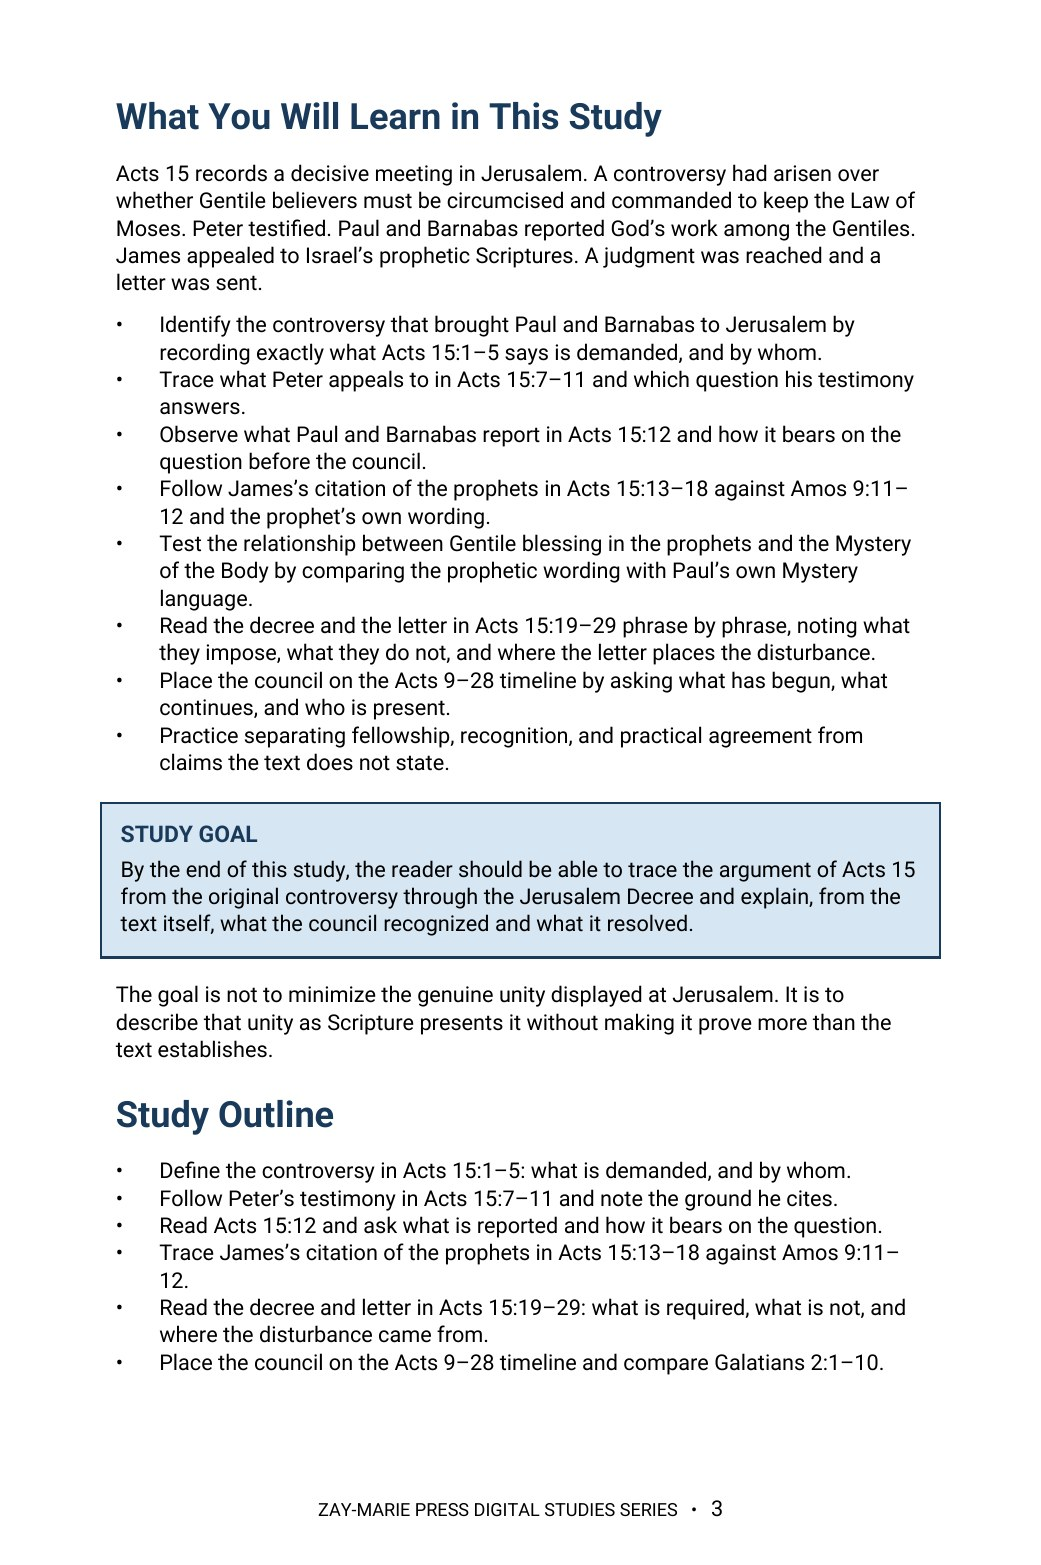
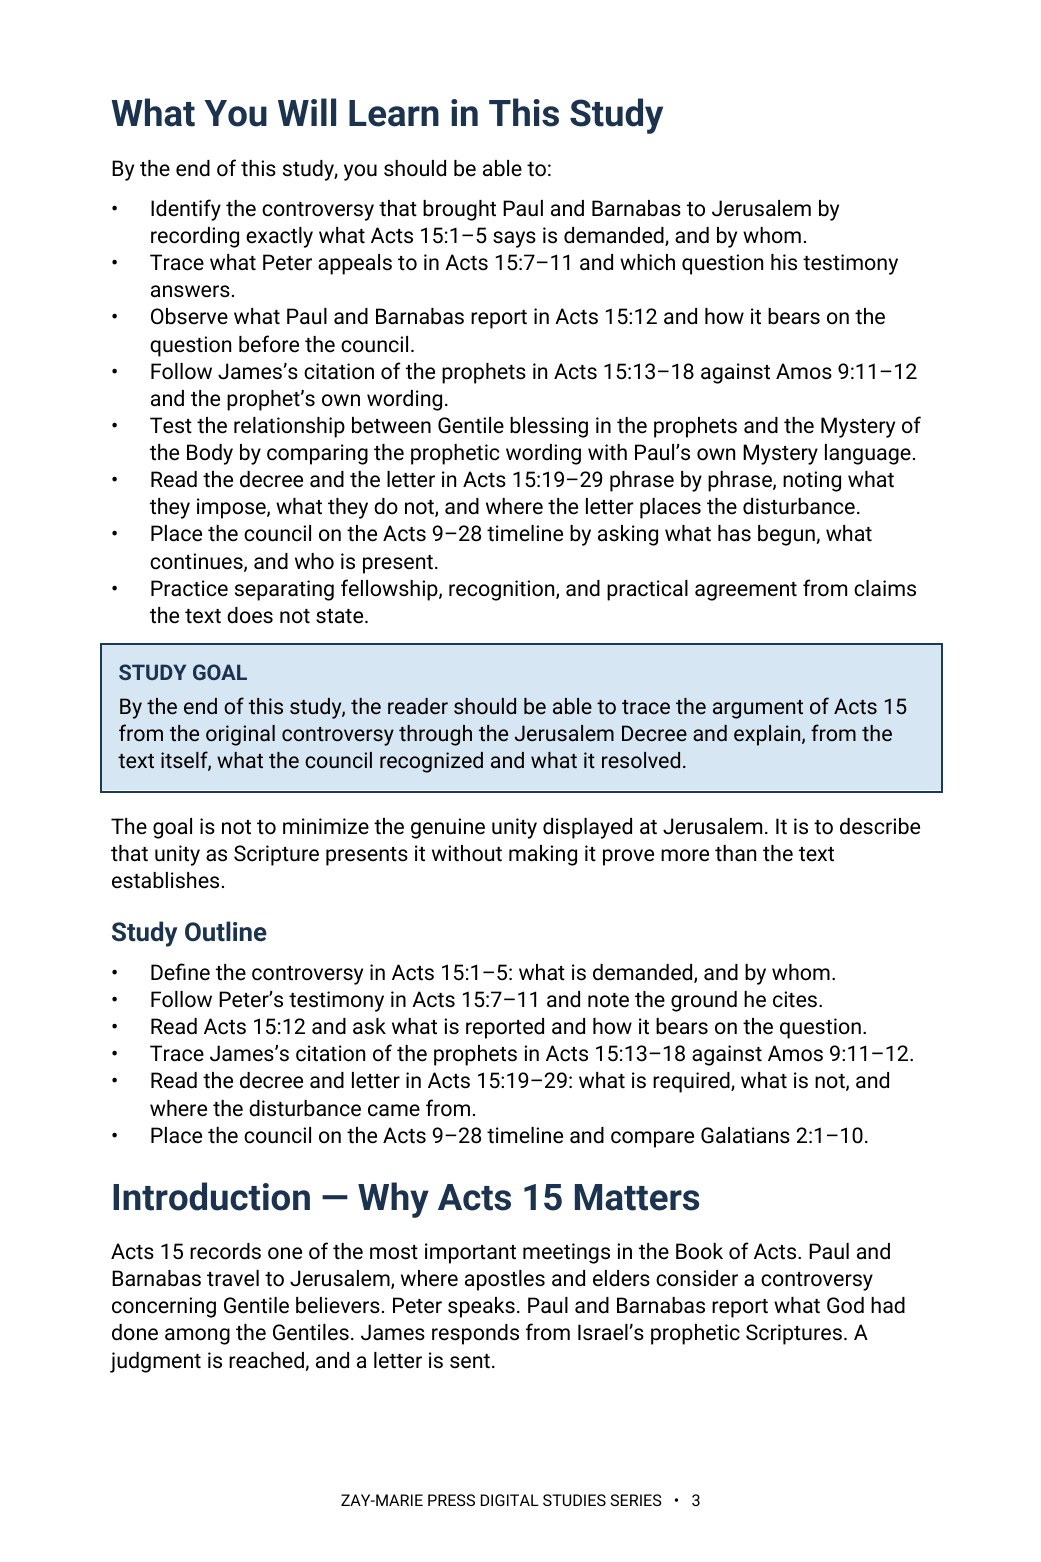
Study 19: rebuilt in Roboto 10 pt on current page (16 pages); previews 2, 3, 4 re-rendered; trackers v1.104/v1.198
Claude-Session: https://claude.ai/code/session_01HC7bs9KYP2scp4hCL6DkTp

Changed region(s): [[0.0922, 0.0615, 0.9222, 0.8912], [0.3074, 0.9526, 0.6455, 0.9834]]

diff --git a/CLAUDE.md b/CLAUDE.md
@@ -23,7 +23,7 @@ These are kept in the repo at `controlling-documents/` and are the current versi
 - As of v1.50 (publisher directive, 2026-10-03), the **What You Will Learn in This Study** section is always bulleted, never set as running paragraphs, written into this file in the same pass (Master Standard Section 3 item 4, Section 6 structure line, Section 22): a list of bullet points, each describing one process, textual marker or interpretive discipline the reader will practice (Section 17 still governs what they may say); at most one short lead-in line may stand above the bullets (for example, “By the end of this study, you should be able to:”); the Study Goal callout and the Study Outline keep their own forms. It governs every new study and every study rebuilt or retrofitted from now on; earlier studies take it when reopened or when the publisher directs. In every study check (Step 1), report whether the section is bulleted. First applied to Study 43.
 **`controlling-documents/Digital_Studies_Relationship_Map_v1.39.md`** — records each study's distinct subject, its related studies, the eight priced six-study collections, the Paul's Missionary Journeys cross-reference map, and the five primary catalog categories (currently version 1.39, covers Studies 1–71; update it as new studies publish, bump the version number, rename the file to match, and log the change in its own version-history table — mirroring the Master Standard's `_vX.Y` filename convention). Check a proposed topic against it before recommending or writing a new study. (2026-09-28: the file was missing from this repo despite this note referencing it; replaced from the publisher's copy and bumped v1.15→v1.25 in the same pass. If this note ever again points to a version not present under `controlling-documents/`, ask the publisher for a copy rather than proceeding without the check.)
 - **`controlling-documents/Digital_Studies_Category_Standard_v1.1.md`** — FINAL and binding (publisher, 2026-10-01): the rules for the five primary catalog categories (Foundations, Israel & Prophecy, Body of Christ, Passages, Doctrinal Themes), the ordered decision procedure for new studies, the precedents, all 71 fixed assignments, and the cover-label form for each category. Read it before placing any card or cover label. Do not ask the publisher where a study belongs; apply the procedure and state the result. Only the publisher changes a ruling; then bump this Standard's version and filename, re-letter the cover, and update the Relationship Map.
-- **`controlling-documents/Doctrinal_Upgrade_Retrofit_Plan_v1.103.md`** — working tracker for retrofitting Studies 1–59 to the 2026-10-02 doctrinal upgrade (Framework/PAM v1.1, Master Standard v1.40, Rules 7–17): withdrawn-wording search keys, impact tiers, waves and the per-study method. Read it before continuing the retrofit in any session; update status, bump the version and rename the file as work proceeds.
+- **`controlling-documents/Doctrinal_Upgrade_Retrofit_Plan_v1.104.md`** — working tracker for retrofitting Studies 1–59 to the 2026-10-02 doctrinal upgrade (Framework/PAM v1.1, Master Standard v1.40, Rules 7–17): withdrawn-wording search keys, impact tiers, waves and the per-study method. Read it before continuing the retrofit in any session; update status, bump the version and rename the file as work proceeds.
 - **`controlling-documents/Doctrinal_Packet_Standard_v0.3.md`** — Doctrinal Packet Standard (DRAFT; §7 approved). Governs the separate Doctrinal Packets product strand (5-page interpretive PDFs per Bible book — a print-friendly cover as page 1 plus 4 content pages, $2.99, KJV, pilot: Genesis, live at `packet-genesis.html`, hub `doctrinal-packets.html`; site pages say "5 Pages", cover styles live in `packets.css`, Old Testament blue and New Testament soft pale green, hub listed in Bible order). **Preview rule (publisher directive, 2026-09-29, packets only):** previews show about one page's worth in two cropped views (top of page 1 through the anchor texts; the chart section) — never the exegesis, architecture, Mystery contrast, logic chain, outline, or closing. Master Standard §16/§17 still govern Digital Studies. Bump the version and rename the file as the Standard is finalized.
 - **`controlling-documents/Preview_Page_Spoiler_Retrofit_Audit_v1.4.md`** — working tracker for the Studies 1–60 preview-page conclusion-spoiler retrofit (see the section below). Read it before continuing that audit in any session; update its status fields and changelog, bump the version, and rename the file to match as the audit proceeds — same `_vX.Y` convention as the other controlling documents. As of v1.1, the website-side half was DONE: all 60 studies' "What You'll Study" text was judged against the rule (methodology documented in the file) and 22 points across 11 studies were rewritten and pushed; an unrelated Study 22 content bug (Study 21's content had leaked into it) was also found and fixed. As of v1.2, the publisher supplied Studies 1–60's interior production PDFs and the interior-PDF half was also surveyed (read-only): 10 studies (37, 41, 45, 47, 48, 49, 51, 52, 53, 54) were found to have at least one interior "What You Will Learn" violation, 50 studies were confirmed compliant, and the orphaned `assets/study-45-sanctification-under-grace.docx` (removed from the repo per the publisher in v1.0) was confirmed word-for-word identical to Study 45's actual production interior PDF content. As of v1.3, the publisher supplied editable DOCX sources for all 10 violating studies; all 15 violating points were rewritten and approved, delivered as corrected final PDFs, and — along the way — a second defect was found and fixed (Studies 47 and 48's source DOCX still had an unintegrated cover placeholder despite both being long-published live with real covers; fixed by inserting the existing approved cover art). The website's "What You Will Learn" preview image (`study-NN-page-3.jpg`) was regenerated from the corrected content for all 10 studies and pushed to `main` (commit `cea1859`), verified against a fresh clone. **The website side of this audit is now fully compliant for all 60 studies.** Outstanding: the publisher's purchasable interior PDF files themselves have corrected versions delivered, but distribution to existing purchasers was decided by the publisher on 2026-09-29: silent swap of the files behind the existing downloads, no reissue notice (recorded in the v1.4 changelog entry; the product files are not in this repo).
 

diff --git a/controlling-documents/Doctrinal_Upgrade_Retrofit_Plan_v1.104.md b/controlling-documents/Doctrinal_Upgrade_Retrofit_Plan_v1.104.md
@@ -196,3 +196,4 @@ Working tracker for correcting published studies to the Framework/PAM v1.1, Mast
 - v1.101 (2026-10-04): Study 11 rebuilt in Roboto at 10 pt on the current page, 15 pages (was 15 on the old 432×648 page; page count unchanged). WYWL bullets 1, 3, 4, 7, 8 reworded to process lines; intro paragraphs removed; 'framework' wording removed from reader text (10 places); overlap, Rule 17, Cornelius and 1 Timothy sentences added; Acts 28 set as national suspension with no chronology; Teaching Outline numbered. Previews 2, 3 and 5 re-rendered at 1041×1562 (substantive preview moved from page 4 to page 5, relabelled Pentecost); site.js 11:15 unchanged.
 - v1.102 (2026-10-04): Study 13 rebuilt in Roboto at 10 pt on the current page, 18 pages (was 19 on the old 432×648 page). WYWL opening paragraph removed, lead-in added, seven bullets reworded to process lines; 'framework' wording removed (2); four boundaries, triad and 'Identity is fixed by divine program, not by metaphor' added in section 6; 'Salvation is come unto the Gentiles' line added; overlap and Rule 17 sentences added in section 9; Acts 28 national suspension with no chronology; Teaching Outline numbered. Previews 2, 3 and 5 re-rendered at 1041×1562; site.js 13:18; study page 18 pages. Study 9's Romans 11 callout left as drafted.
 - v1.103 (2026-10-04): Study 17 rebuilt in Roboto at 10 pt on the current page, 17 pages (was 18 on the old 432×648 page). WYWL opening paragraph removed, lead-in added, eight bullets reworded to process lines; 'framework' wording removed (2); Galatians 3 sentence added to section 7; overlap, Rule 17 and synagogue short-form sentences added to section 9; Acts 28 national suspension with no chronology (callout, outline, further study); Teaching Outline numbered; seven content tables kept. Previews 2, 3 and 5 re-rendered at 1041×1562 (page 5 still Genesis 12:1–3 phrase by phrase); site.js 17:17; study page 17 pages.
+- v1.104 (2026-10-04): Study 19 rebuilt in Roboto at 10 pt on the current page, 16 pages (unchanged count; old 432×648 page retired). WYWL opening paragraph removed and lead-in added (eight bullets already process lines, kept); standing Cornelius sentence completed in section 2; overlap and Rule 17 sentences added to section 8; Teaching Outline numbered; six content tables kept; no internal terms found. Previews 2, 3 and 4 re-rendered at 1041×1562; site.js 19:16 unchanged; study page 16 pages.

diff --git a/controlling-documents/Digital_Studies_PAM_Audit_v1.198.md b/controlling-documents/Digital_Studies_PAM_Audit_v1.198.md
@@ -427,3 +427,4 @@ Study 15 PDF not yet supplied. Typography: none of Studies 2, 3, 6, 8 is in EB G
 - v1.195 (2026-10-04): Study 11 rebuilt in Roboto at 10 pt on the current page, 15 pages; WYWL bullets reworded to process lines; 'framework' wording removed from reader text; overlap, Rule 17, Cornelius and 1 Timothy sentences added; Acts 28 national suspension, no chronology; Teaching Outline numbered (see Retrofit Plan v1.101).
 - v1.196 (2026-10-04): Study 13 rebuilt in Roboto at 10 pt on the current page, 18 pages; WYWL bullets reworded to process lines; four boundaries and triad added; overlap and Rule 17 sentences added; Acts 28 national suspension, no chronology; Teaching Outline numbered (see Retrofit Plan v1.102).
 - v1.197 (2026-10-04): Study 17 rebuilt in Roboto at 10 pt on the current page, 17 pages; WYWL bullets reworded to process lines; Galatians 3, overlap, Rule 17 and synagogue sentences added; Acts 28 national suspension, no chronology; Teaching Outline numbered (see Retrofit Plan v1.103).
+- v1.198 (2026-10-04): Study 19 rebuilt in Roboto at 10 pt on the current page, 16 pages; WYWL lead-in added; Cornelius, overlap and Rule 17 sentences added; Teaching Outline numbered (see Retrofit Plan v1.104).
